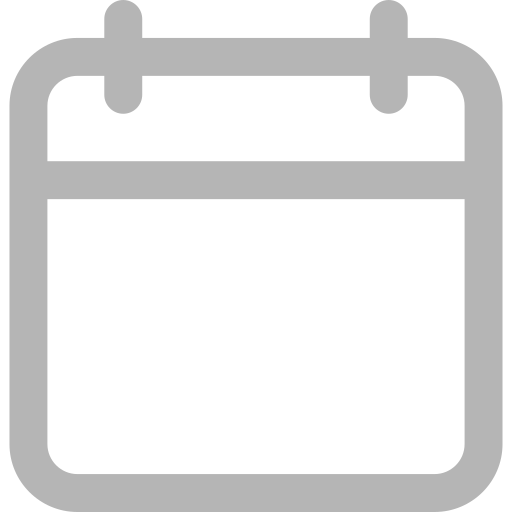
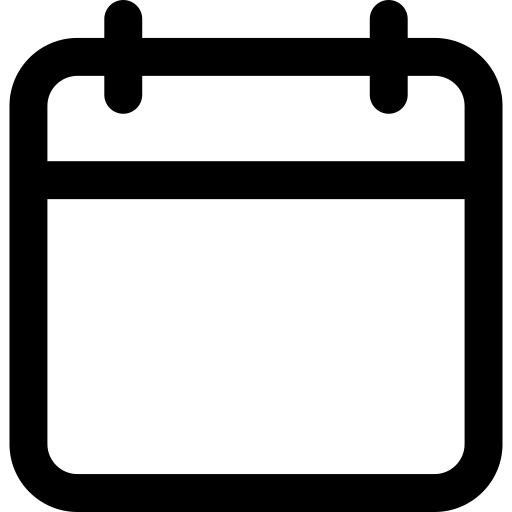
Update patient profile and staff profile
Update Patient_profile.css
AND staff_profile.css
AND add icons

diff --git a/css/profile.css b/css/profile.css
@@ -257,11 +257,11 @@ img {
 
     background-color: #ffffff;
 
-    border: 1px solid #c43b98;
+    border: 1px solid #f9528e;
 
     border-radius: 8px;
 
-    color: #c43b98;
+    color: #f9528e;
 
     font-size: 14px;
 
@@ -274,7 +274,7 @@ img {
 
 
 .edit-profile-button:hover {
-    background-color: #c43b98;
+    background-color: #e81f67;
 
     color: #ffffff;
 }
@@ -289,11 +289,11 @@ img {
 
     background-color: #ffffff;
 
-    border: 1px solid #c43b98;
+    border: 1px solid #f9528e;
 
     border-radius: 7px;
 
-    color: #c43b98;
+    color: #f9528e;
 
     font-size: 13px;
 
@@ -304,7 +304,7 @@ img {
 
 
 .small-edit-button:hover {
-    background-color: #c43b98;
+    background-color: #e81f67;
 
     color: #ffffff;
 }
@@ -356,7 +356,7 @@ img {
 
     border-radius: 50%;
 
-    color: #c43b98;
+    color: #f9528e;
 
     font-size: 17px;
 }
@@ -427,10 +427,10 @@ img {
 
 
 .profile-input:focus {
-    border-color: #c43b98;
+    border-color: #f9528e;
 
     box-shadow:
-        0 0 0 2px rgba(196, 59, 152, 0.10);
+        0 0 0 2px rgba(249, 82, 142, 0.10);
 }
 
 
@@ -490,7 +490,7 @@ textarea.profile-input {
 
 
 .profile-footer strong {
-    color: #c43b98;
+    color: #f9528e;
 
     font-size: 18px;
 }

diff --git a/html/staff_profile.html b/html/staff_profile.html
@@ -187,7 +187,8 @@
 
                         <div class="information-icon">
 
-                            <span>💼</span>
+                            <img src="../icons/briefcase.png"
+                                 alt="">
 
                         </div>
 
@@ -215,7 +216,8 @@
 
                         <div class="information-icon">
 
-                            <span>▣</span>
+                            <img src="../icons/identity-card.png"
+                                 alt="">
 
                         </div>
 
@@ -245,7 +247,8 @@
 
                         <div class="information-icon">
 
-                            <span>▦</span>
+                            <img src="../icons/position.png"
+                                 alt="">
 
                         </div>
 
@@ -399,7 +402,8 @@
                         <div class="account-left">
 
                             <div class="account-icon">
-                                ▣
+                                <img src="../icons/member.png"
+                                     alt="">
                             </div>
 
                             <span>

diff --git a/html/patient_profile.html b/html/patient_profile.html
@@ -223,7 +223,8 @@
 
                         <div class="information-icon">
 
-                            <span>▣</span>
+                            <img src="../icons/identity-card.png"
+                                 alt="">
 
                         </div>
 
@@ -251,7 +252,8 @@
 
                         <div class="information-icon">
 
-                            <span>▣</span>
+                            <img src="../icons/calendar2.png"
+                                 alt="">
 
                         </div>
 
